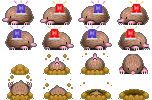
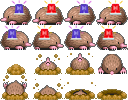
Fix Policemole hitbox

diff --git a/index.js b/index.js
@@ -163,7 +163,7 @@ function preload() {
     this.load.spritesheet('laser', 'assets/lasoir.png', { frameWidth: 800, frameHeight: 200 });
     this.load.spritesheet('dude', 'assets/SoirMole.png', { frameWidth: 32, frameHeight: 22 });
 
-    this.load.spritesheet('police', 'assets/Policemole.png', { frameWidth: 38, frameHeight: 25 });
+    this.load.spritesheet('police', 'assets/Policemole.png', { frameWidth: 32, frameHeight: 25 });
 
     this.lsdPipeline = game.renderer.addPipeline('lsd', new LSDPipeline(game));
     this.lsdPipeline.setFloat2('resolution', game.config.width, game.config.height);
